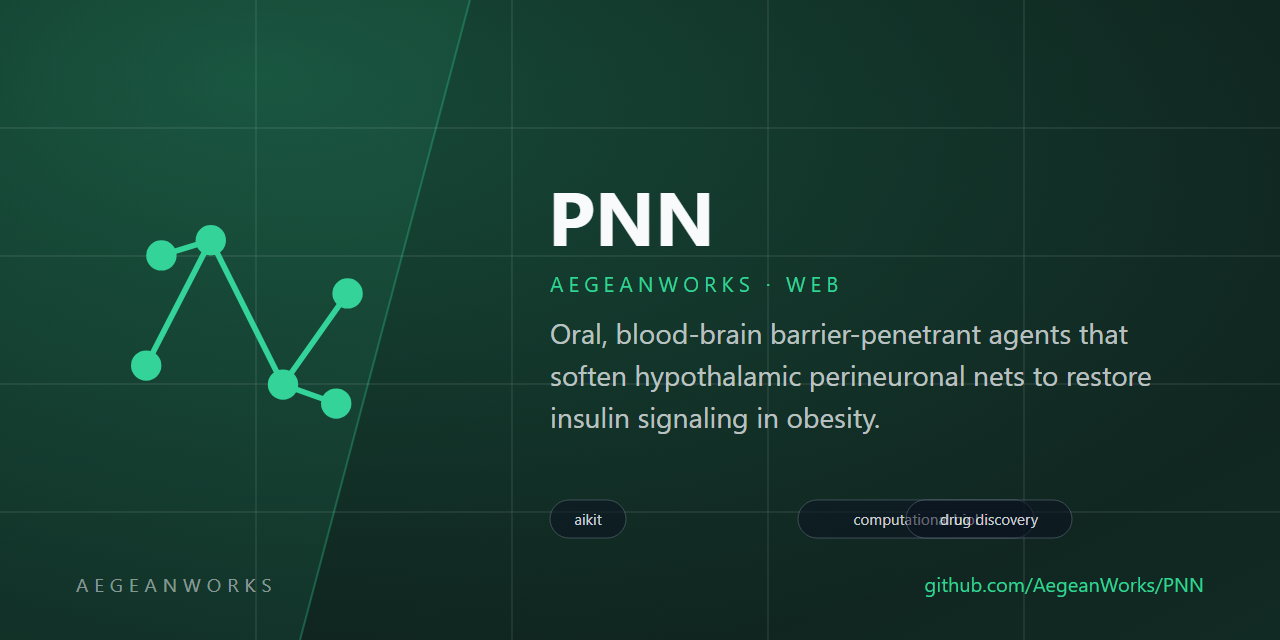
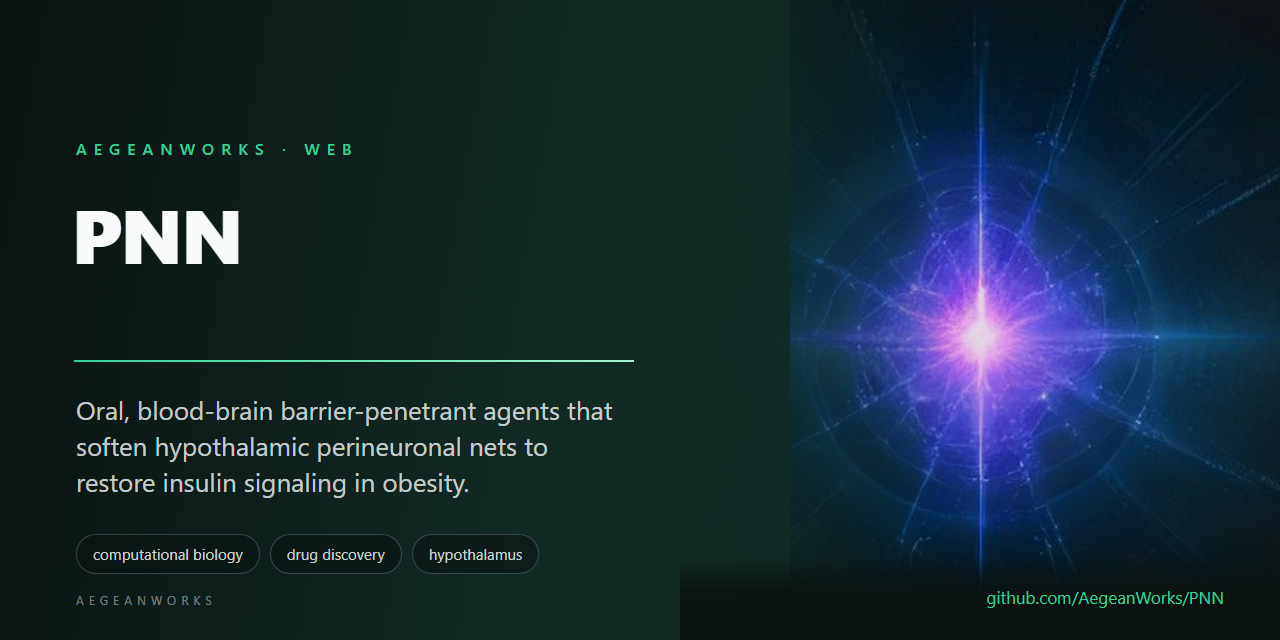
feat(brand): replace procedural marks with reviewed AI-art identities

diff --git a/README.md b/README.md
@@ -1,8 +1,8 @@
 # PNN Project: Oral BBB-Penetrant Agents for Hypothalamic PNN Softening
 
 <!-- aegean:media:start -->
-<p align="center"><img src="assets/logo.svg" alt="PNN logo" width="96" height="96"></p>
-<p align="center"><img src="assets/social-preview.svg" alt="PNN social preview" width="100%"></p>
+<p align="center"><img src="assets/logo.png" alt="PNN logo" width="96" height="96"></p>
+<p align="center"><img src="assets/social-preview.png" alt="PNN social preview" width="100%"></p>
 <!-- aegean:media:end -->
 
 Oral, blood-brain barrier-penetrant agents that soften hypothalamic perineuronal nets to restore insulin signaling in obesity.
